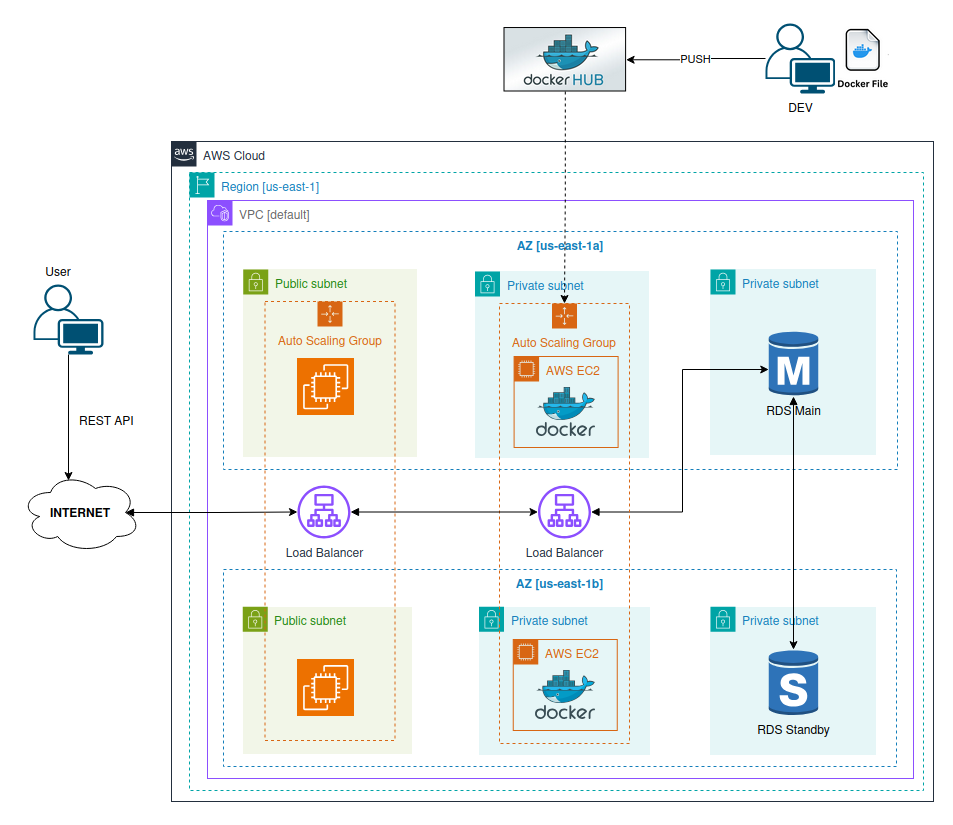
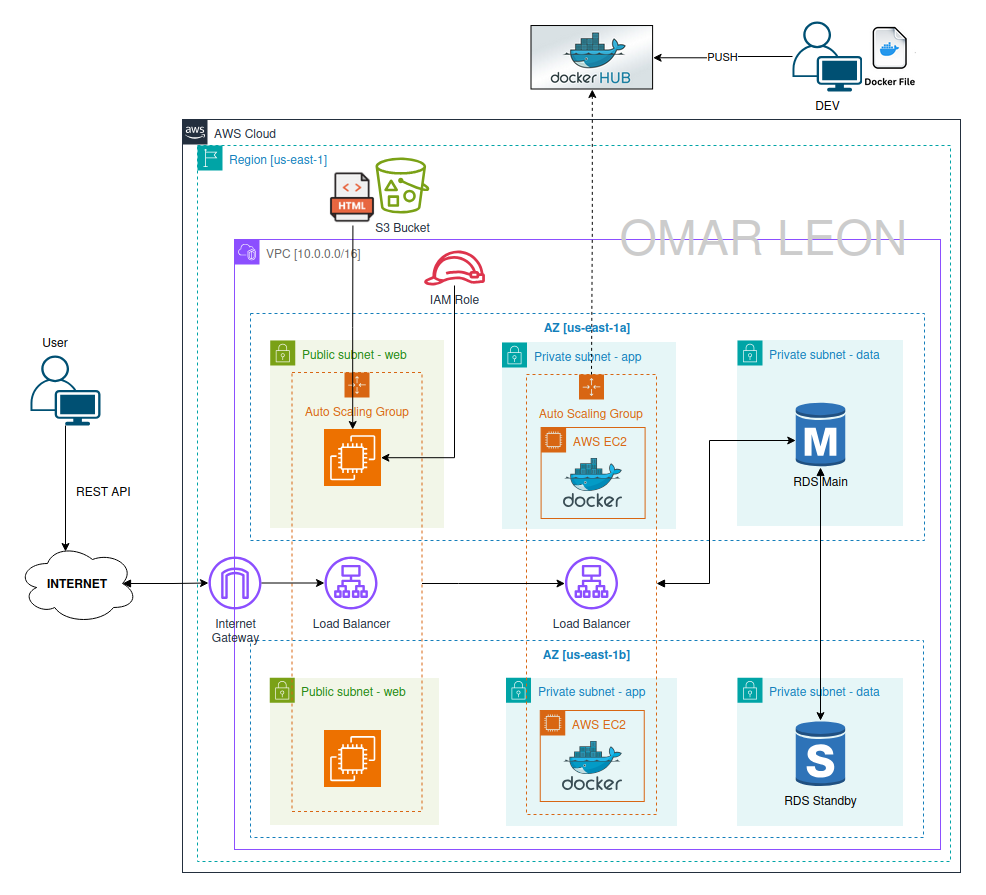
w4 3-tier-arch

diff --git a/deployment/w4_high_available_3_tier_arch/README.md b/deployment/w4_high_available_3_tier_arch/README.md
@@ -1,93 +1,301 @@
-# Week 3: High Available 3 Tier Architecture
-The Library Management System is a backend API built with FastAPI that provides endpoints to manage books, users, and borrowing transactions. The system supports full CRUD operations and uses a MySQL database for persistent data storage. This module focuses on containerizing the application using Docker and deploying it in the AWS Cloud with RDS (for the database) and EC2 (for the application container).
+# Week 4: High Available 3 Tier Architecture
+This module focuses on designing and deploying a **highly available 3-Tier Architecture** on AWS for the Library Management System — a backend API developed with FastAPI that manages books, users, and borrowing operations using full CRUD functionality.
+
+The project evolves from local container testing to a **production-grade cloud deployment** using:
+
+* **Docker containers** for packaging the application
+* **Amazon EC2 Auto Scaling Groups** for the Web and App tiers
+* **Application Load Balancers (ALB)** for traffic distribution
+* **Amazon RDS (MySQL)** in **Multi-AZ** mode for fault-tolerant data storage
+
+This module demonstrates how to build an HA infrastructure capable of withstanding AZ failures while maintaining service continuity.
+
+---
 
 ![Alt text](diagram.png)
 
 
 
+---
+
 ## 1. Objective
-Design a cloud-based deployment strategy using Docker Container, Docker Hub, AWS EC2 and RDS Database.
+Design and deploy a **Highly Available 3-Tier Architecture** using Dockerized FastAPI services, AWS load balancers, Auto Scaling Groups, and an RDS Multi-AZ database.
+
+The objective is to provide a **scalable, resilient, and production-ready cloud environment** following best practices for networking, IAM, compute, and database operations.
+
+---
+Here are **simplified and cleaner versions** of **Sections 2, 3, and 4**, keeping them technical but more concise.
+
+---
 
 ## 2. Deployment Strategy
-The deployment uses a hybrid approach with local container testing and cloud hosting on AWS.
- - **Local**: The FastAPI app and MySQL database run in containers using Docker for production-like testing. The verified image is then pushed to Docker Hub.
- - **Cloud**: An EC2 instance hosts the app container connected to an RDS MySQL database. Security Groups manage access — web-sg for API traffic (port 8000) and db-sg for database access (port 3306).
- - **Validation**: Connectivity is tested via FastAPI’s /docs and CURL commands.
+The deployment follows a local-to-cloud workflow:
+
+### **Local Environment**
+* The FastAPI application runs in a Docker container.
+* MySQL runs via docker-compose for local testing.
+* After validation, the image is pushed to Docker Hub.
+
+### **AWS Deployment**
+* **Web Tier:** EC2 instances in an Auto Scaling Group behind a public ALB. Apache acts as a reverse proxy to the App Tier.
+* **App Tier:** EC2 instances running the FastAPI container, behind an internal ALB.
+* **Data Tier:** Amazon RDS MySQL in Multi-AZ for high availability.
+
+### **Networking & Security**
+* Security Groups restrict communication between tiers (Web → App → RDS).
+* IAM roles allow the Web Tier to fetch the frontend file from S3.
+* User Data scripts automate the installation and container startup on EC2.
+
+---
 
 ## 3. Tech Stack
 
-- **FastAPI** – Backend API framework
-- **MySQL (RDS)** – Managed relational database
-- **Docker / docker-compose** – Containerization and local orchestration
-- **Docker Hub** - Docker Registry
-- **AWS EC2** – Cloud hosting for the app container
-- **Git** – Version control
-- **Security Groups** – Network access control
+### **Application & Database**
+* FastAPI (backend)
+* MySQL (Amazon RDS Multi-AZ)
 
+### **Containerization & Registry**
+* Docker / docker-compose
+* Docker Hub
+
+### **AWS Services**
+* EC2 + Auto Scaling Groups
+* Application Load Balancers (public and internal)
+* Amazon S3
+* Security Groups
+* IAM Roles
+
+### **Supporting Tools**
+* Git
+* Bash User Data scripts
+
+---
 
 ## 4. Cloud Skills Covered
 
-- Designed and deployed a containerized FastAPI app from local to AWS.
-- Built and managed Docker images via Docker Hub.
-- Used environment variables for secure configuration on EC2.
-- Configured AWS RDS (MySQL) and linked it to the app container.
-- Automated EC2 setup with User Data scripts.
-- Isolate App <–> Database communication using Security Groups.
+* Designed and deployed a **3-Tier Highly Available Architecture** on AWS.
+* Built Docker images and deployed containers on EC2 using User Data.
+* Configured a **public Web ALB** and **internal App ALB** for traffic distribution.
+* Set up **RDS MySQL Multi-AZ** for resilient database operations.
+* Implemented **Auto Scaling Groups** for automatic recovery and scaling.
+* Applied Security Groups to control traffic between Web, App, and Data tiers.
+* Used IAM roles for secure S3 access from EC2 instances.
 
-## 5. Deployment
+---
 
-### 5.a. EC2/Docker + ALB + ASG + RDS (AWS Console)
+## 5. Deployment $ Configuration Steps (AWS Console)
 
-Create 2 Security Groups in: AWS Console > EC2 > Security Groups > Create Security Group
+5.1. Create a New VPC
+- Create **Dev VPC** as explained in Week 3 project.
+
+5.2. Security Groups
 ```init
-    - web-sg
-    - app-sg
+### Security Group Table
+| Name        | Ports  | Origin        |
+|-------------|--------|---------------|
+| alb-web-sg  | 80,443 | 0.0.0.0/0     |
+| asg-web-sg  | 80,443 | alb-web-sg    |
+| alb-app-sg  | 80     | asg-web-sg    |
+| asg-app-sg  | 8000   | alb-app-sg    |
+| data-sg     | 3306   | asg-app-sg    |
 
-    
-    
-    - web-sg
-        - Security group name: web-sg
-        - Description: web-sg
-        - Add Inbound Rule: TCP/8000/source(0.0.0.0/0)
-    - db-sg
-        - Security group name: db-sg
-        - Description: db-sg
-        - Add Inbound Rule: TCP/3306/source(web-sg)
+### Configuration on AWS Console
+- VPC > Security Groups > Create Security Group  
+- SG name:          alb-web-sg 
+- Description:      alb-web-sg
+- VPC:              Dev VPC  
+- Inbound Rules:  
+  - HTTP from anywhere  
+  - HTTPS from anywhere
+
+Note: Repeat these steps for the other SG
 ```
 
-Spin up an RDS database: AWS Console > RDS > Create database
+5.3. RDS Subnet Group
 ```init
-    - Choose a database creation method: Standard create
-    - Engine: MySQL
-    - Engine version: MySQL 8.0.42
-    - Availability and durability: Multi-AZ
-    - DB instance identifier: db-lib-mgmt
-    - Master username: root
-    - Master password: ******8
-    - DB instance class: db.t3.micro
-    - Storage: gp2/20GB
-    - VPC: Default
-    - Public access: No
-    - VPC security groups: data-sg
-    - DB subnet group: default (all subnets)
-    - Initial database name: mydb
-    - Enable automated backup: Checked
-    - Once RDS is active, copy the connection endpoint
+- RDS > Subnet Group > Create DB subnet group  
+  - Name:           db-subnet-group-multi-az
+  - Description:    db-subnet-group-multi-az
+  - VPC:            Dev VPC
+  - AZs:            us-east-1a, us-east-1b
+  - Subnets:  
+    - Private Data Subnet AZ1  
+    - Private Data Subnet AZ2  
 ```
 
-Spin up an EC2 Server with Docker inside: AWS Console > EC2 > Launch an instance
+5.4. RDS Multi-AZ Deployment
 ```init
-    - Name: backend-api
-    - OS: Amazon Linux 2023
-    - Instance type: t3.micro
-    - Key pair: Yes
-    - VPC: Default
-    - Security Group: web-sg
-    - Availability Zone: us-east-1a           # Same AZ as RDS
-    - Edit the ec2_user_data script: RDS username, password and endpoint
-    - User Data: Use the edited script
+Spin up an RDS instance with:
 
-# Test connectivity with the CURLs using Endpoints and CURLs (Section 6), browser or <ec2_ip_server>:8000/docs
+- RDS > Databases > Create database  
+  - Database creation method:   Full configuration
+  - Engine type:                MySQL
+  - Engine version:             Default
+  - Templates:                  Dev/Test
+  - Availability & durability:  Multi-AZ DB instance deployment (2 instances)
+  - DB instance identifier:     db-lib-mgmt
+  - Master username:            root
+  - Master password:            ******8
+  - DB instance class:          db.t3.micro
+  - Storage type:               gp2
+  - Allocate storage:           20 GiB
+  - VPC:                        Dev VPC
+  - DB subnet group:            db-subnet-group-multi-az
+  - Public access:              No
+  - Security group:             data-sg
+  - Initial database name:      mydb
+
+- Once RDS is active → copy the connection `endpoint`.
+```
+
+5.5. S3 Bucket
+```init
+- S3 > Buckets > Create bucket  
+  - Bucket type:    General
+  - Bucket name:    test-multi-az-omar
+  - Keep default settings (Private)
+
+- After creation, upload the frontend file `index.html`.
+```
+
+5.6. IAM Role
+```init
+- IAM > Roles > Create role  
+  - Trusted entity:     AWS service
+  - Use case:           EC2
+  - Select policy:      S3FullAccess
+
+Note: IAM role required for Web EC2 instances to download `index.html` from S3.
+```
+
+5.7. Application Load Balancers & Target Groups
+```init
+### Web Target Group
+- EC2 > Target Groups > Create target group  
+  - Target type:            Instances
+  - Name:                   web-tg
+  - Protocol:               HTTP
+  - Port:                   80
+  - VPC:                    Dev VPC
+  - Health check protocol:  HTTP
+  - Health check path:      "/"
+  - Next > Next > Create
+
+---
+
+### Web Application Load Balancer
+- EC2 > Load Balancers > Create load balancer  
+  - Name:               web-alb
+  - Scheme:             Internet-facing
+  - AZs and Subnets:  
+    - us-east-1a: Public Web Subnet AZ1  
+    - us-east-1b: Public Web Subnet AZ2  
+  - Security Group: **alb-web-sg
+  - Listener:           HTTP
+  - Port:               80
+  - Target group:       web-tg
+
+---
+
+### App Target Group
+- EC2 > Target Groups > Create target group  
+  - Target type:            Instances
+  - Name:                   app-tg
+  - Protocol:               HTTP
+  - Port:                   8000
+  - VPC:                    Dev VPC
+  - Health check protocol:  HTTP
+  - Health check path:      "/users/"  
+  - Next > Next > Create
+
+---
+
+### App Application Load Balancer
+- EC2 > Load Balancers > Create load balancer  
+  - Name:               app-alb
+  - Scheme:             Internal
+  - AZs and Subnets:  
+    - us-east-1a: Private App Subnet AZ1  
+    - us-east-1b: Private App Subnet AZ2  
+  - Security Group:     alb-app-sg
+  - Listener:           HTTP
+  - Port:               80
+  - Target group:       app-tg
+```
+
+5.8. Auto Scaling Groups & Launch Templates
+```init
+### Web Launch Template
+- EC2 > Launch templates > Create launch template  
+  - Name:                   web-launch-template
+  - Description:            web-launch-template
+  - Auto Scaling guidance:  Check
+  - Image:                  Amazon Linux 2023 — 64-bit
+  - Instance type:          t2.micro
+  - Key pair:               select key (myec2key)
+  - Security group:         asg-web-sg
+  - IAM instance profile:   ec2-s3-access
+  - User data: paste "web_user_data script" with correct S3 bucket & App ALB DNS name
+
+> Note: The `web_user_data` script installs Apache in reverse proxy mode to avoid CORS issues.
+
+---
+
+### App Launch Template
+- EC2 > Launch templates > Create launch template  
+  - Name:                   app-launch-template
+  - Description:            app-launch-template  
+  - Auto Scaling guidance:  Check
+  - Image:                  Amazon Linux 2023 — 64-bit
+  - Instance type:          t2.micro
+  - Key pair:               select key (myec2key)
+  - Security group:         asg-app-sg
+  - User data: paste "app_user_data script" with updated DB username, password, and RDS endpoint
+
+---
+
+### Web Auto Scaling Group
+- EC2 > Auto Scaling groups > Create Auto Scaling group  
+  - Name:                       web-asg
+  - Launch template:            web-launch-template
+  - VPC:                        Dev VPC
+  - Subnets:                    Public Web Subnet AZ1, Public Web Subnet AZ2
+  - Attach to load balancer:    web-tg
+  - Enable ELB health checks:   Check
+  - Desired/Min/Max:            2 / 1 / 3
+  - Automatic scaling:          Target tracking
+    - Metric:                   Average CPU Utilization  
+    - Target value:             50
+  - Monitoring:                 Enable group metrics (CloudWatch)
+
+---
+
+### App Auto Scaling Group
+- EC2 > Auto Scaling groups > Create Auto Scaling group  
+  - Name:                       app-asg
+  - Launch template:            app-launch-template
+  - VPC:                        Dev VPC
+  - Subnets:                    Private App Subnet AZ1, Private App Subnet AZ2
+  - Attach to load balancer:    app-tg
+  - Enable ELB health checks:   Check
+  - Desired/Min/Max:            2 / 1 / 3
+  - Automatic scaling:          Target tracking
+    - Metric:                   Average CPU Utilization
+    - Target value:             50
+  - Monitoring:                 Enable group metrics (CloudWatch)
+```
+
+5.9. Clean Up Resources
+```init
+### Follow this order to erase resources
+- Auto Scaling Groups & Launch Templates  
+- Load Balancers & Target Groups  
+- Security Groups  
+- NAT Gateways  
+- VPC  
+- Elastic IPs  
+- IAM Role  
+- S3 Bucket  
 ```
 
 ## 6. Endpoints and CURLs
@@ -102,7 +310,7 @@ Spin up an EC2 Server with Docker inside: AWS Console > EC2 > Launch an instance
 | POST   | `/books/{book_id}/return/{user_id}`      | Return a book       |
 
 ### CURLs
-Replace <URL>:<port> with your server address (e.g., http://localhost:8000)
+Replace <URL>:<port> with your server address, in this case with the DNS name of the Web Aplication Load Balancer (e.g., http://internal-app-alb-1945760550.us-east-1.elb.amazonaws.com). You can include or not the port 80.
 ```bash
 # Create a new user
 curl -X POST <URL>:<port>/users/ -H "Content-Type: application/json" -d '{"name": "Alice"}'
@@ -129,10 +337,13 @@ curl -X POST <URL>:<port>/books/1/return/2
 library-management/
 ├── app                         # FastAPI application code (routes, models, schemas, etc.)
 ├── deployment                  # Deployment-related files and scripts
-│   └── w2_docker_ec2_rds       # Week 2: Docker + EC2 + RDS deployment setup
-│       ├── diagram.png         # Architecture diagram for cloud deployment
-│       ├── ec2_user_data.sh    # User Data script to configure EC2 and run Docker container
-│       └── README.md           # Deployment instructions and notes
+│   └── w2_docker_ec2_rds       
+│   └── w3_vpc_networking
+    └── w4_high_available_3_tier_arch   # Week 4: High Available 3-Tier-Architecture
+        ├── app_user_data.sh            # User Data script for app launch template
+        ├── diagram.png                 # Architecture diagram for cloud deployment
+        ├── README.md                   # Deployment instructions and notes    
+        └── web_user_data.sh            # User Data script for web launch template
 ├── diagram.png                 # High-level project architecture diagram
 ├── docker-compose.yml          # To Construct the DB locally for dev tests
 ├── Dockerfile                  # Instructions to build the FastAPI app container
